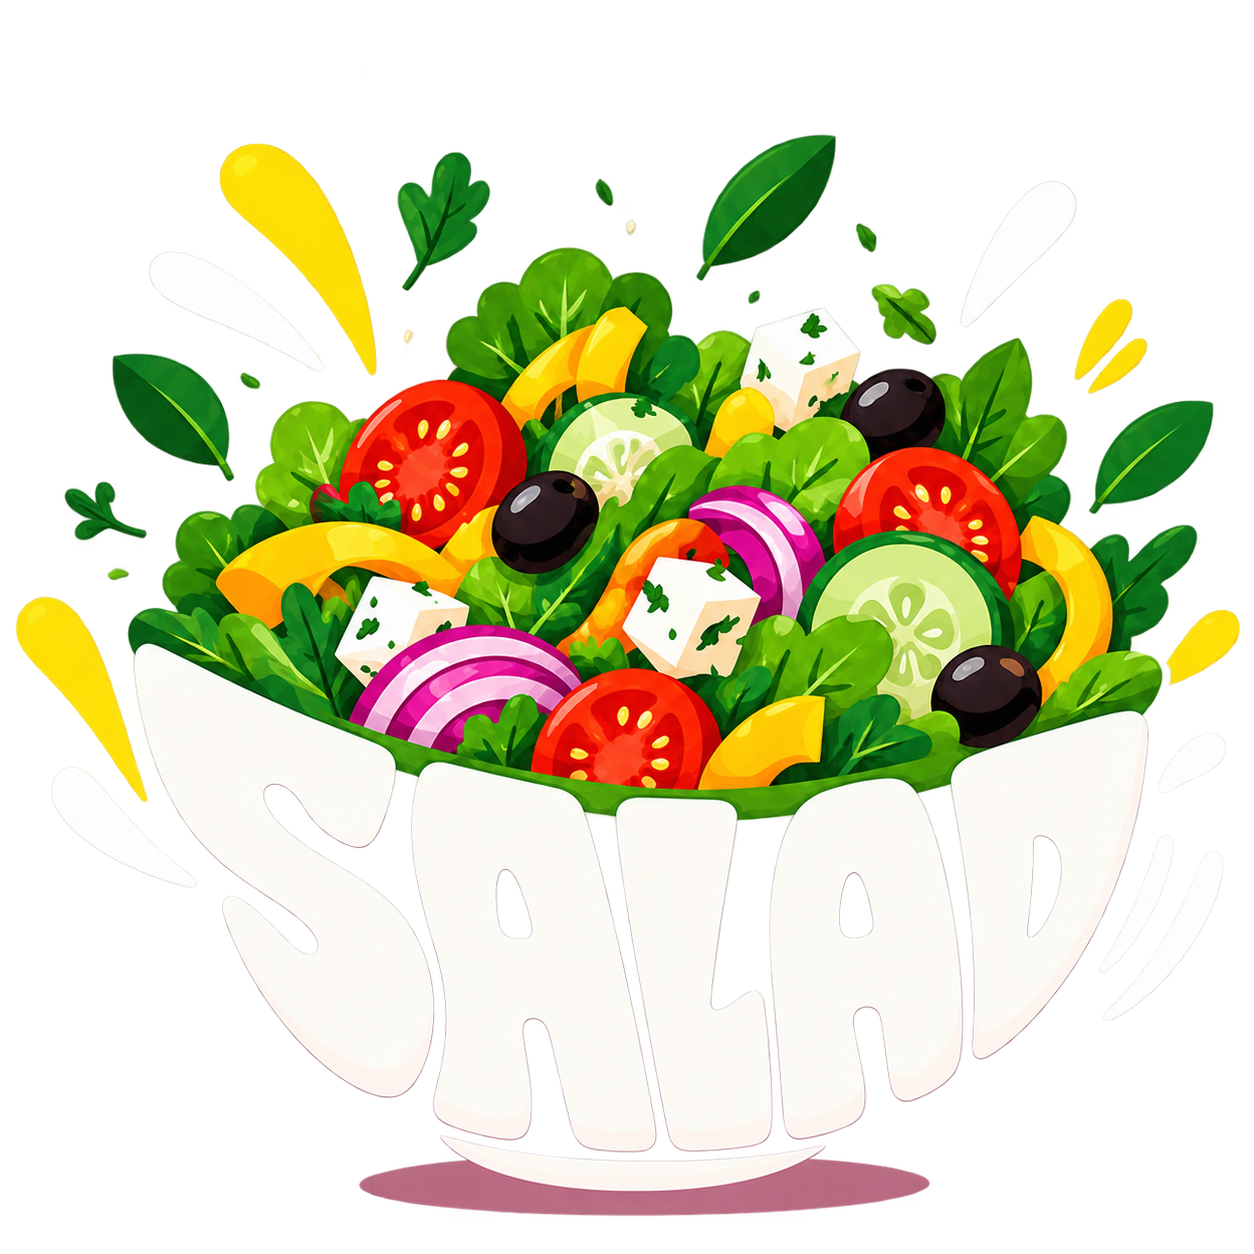
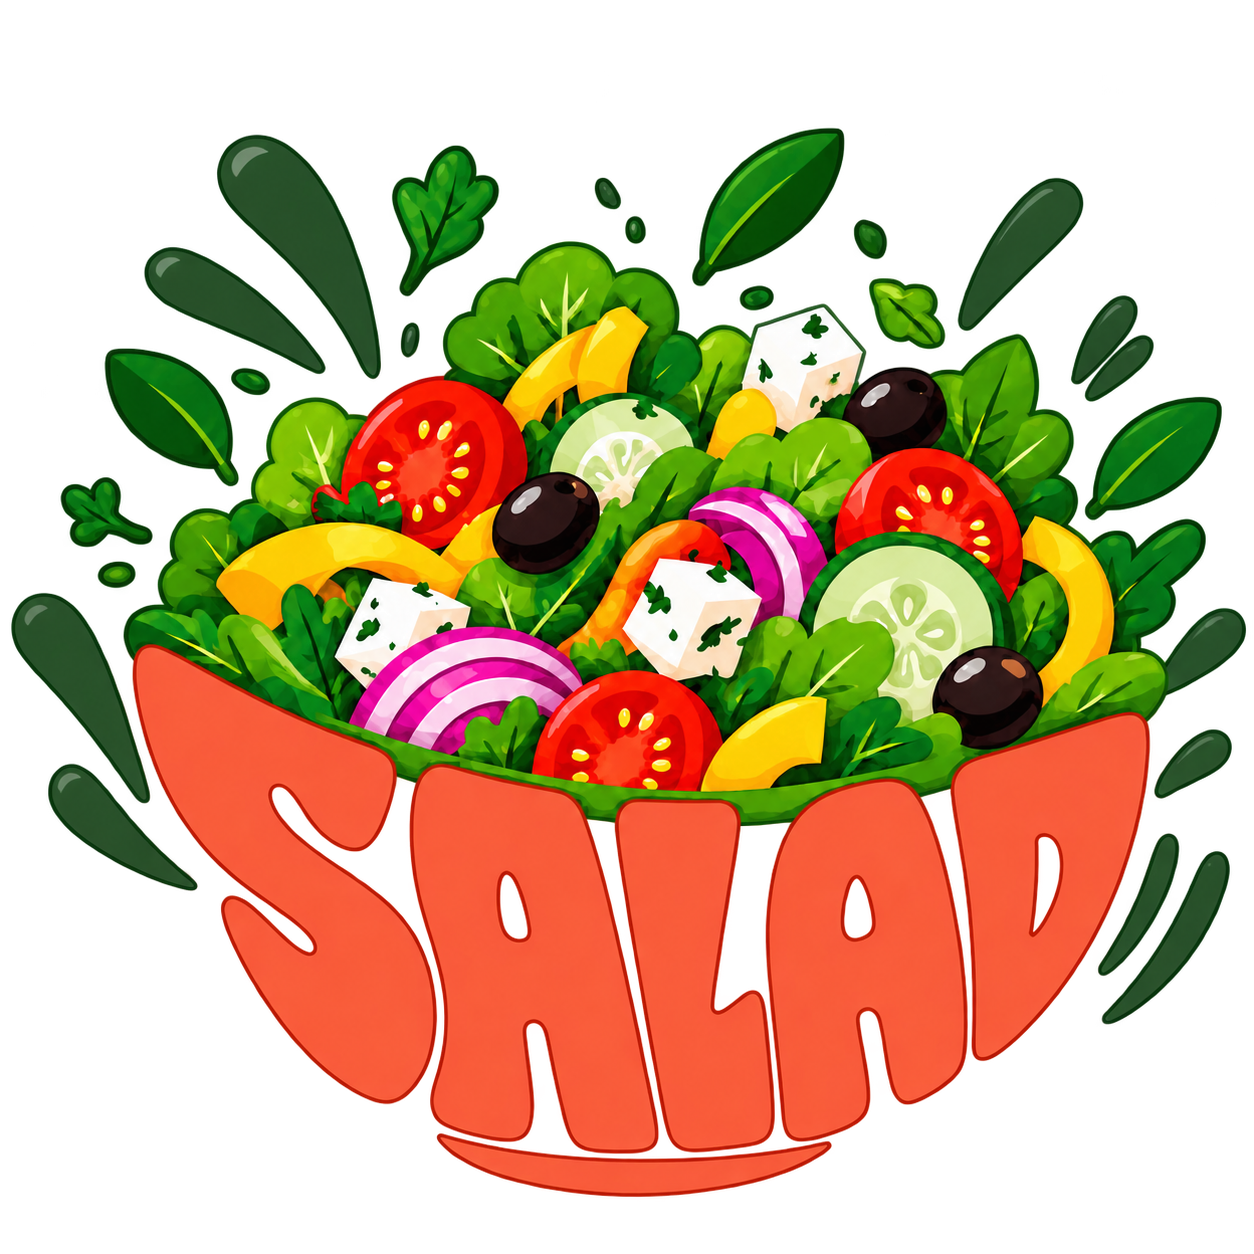
Polish salad sticker and restore cream story section

diff --git a/styles.css b/styles.css
@@ -145,16 +145,16 @@ html.has-scroll-reveal .product-card[data-reveal]{
 }
 
 
-/* Salad story feature: approved poppy coral with the transparent salad sticker. */
-.our-way-section{background:var(--poppy-coral);color:var(--ink)}
+/* Salad story feature: cream background with coral type and a clean transparent sticker. */
+.our-way-section{background:var(--paper);color:var(--ink)}
 .our-way{grid-template-columns:minmax(0,1fr) minmax(0,1fr);gap:8%;padding-block:68px}
 .way-visual{height:auto;min-height:0;overflow:visible;align-self:center}
-.way-salad-sticker{display:block;width:min(100%,440px);height:auto;object-fit:contain;margin-inline:auto;filter:drop-shadow(0 16px 18px #11111124)}
+.way-salad-sticker{display:block;width:min(100%,440px);height:auto;object-fit:contain;margin-inline:auto}
 .way-copy{max-width:520px}
 .way-copy .eyebrow{color:var(--ink)}
 .way-copy h2{color:var(--ink)}
-.way-copy h2 em{color:#fff;text-decoration-color:var(--poppy-green)}
-.way-copy>p:not(.eyebrow){color:var(--ink)}
+.way-copy h2 em{color:var(--poppy-coral);text-decoration-color:var(--poppy-green)}
+.way-copy>p:not(.eyebrow){color:var(--muted)}
 .way-copy .text-link{color:var(--ink);text-decoration-color:var(--poppy-green)}
 @media(max-width:620px){
   .our-way{grid-template-columns:1fr;gap:12px;padding-block:40px}
